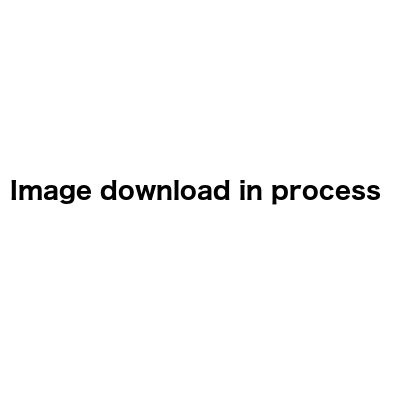
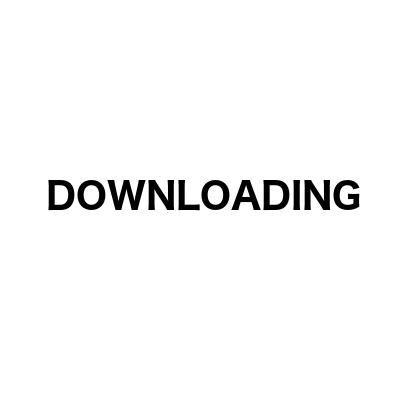
Updated ready

Changed region(s): [[0.03, 0.45, 0.96, 0.54]]

diff --git a/VirtualTourist/SharedNetworkServices.swift b/VirtualTourist/SharedNetworkServices.swift
@@ -16,11 +16,13 @@ class SharedNetworkServices: NSObject, NSFetchedResultsControllerDelegate {
     private override init() {}                              // ensure no one will init
     
 
+    // top level func used to save photos of a Pin
+    
     func savePhotos(pin: Pin, completionHandler:(status: ErrorType) -> Void)  {
 
-        GlobalVar.sharedInstance.photosDownloadIsInProcess = true   // photo downloads are in process
-        self.getURLsFromFlickr(pin, completionHandler: { (status) in
-            self.storePhotos(pin, completionHandler: { (status) in
+        GlobalVar.sharedInstance.photosDownloadIsInProcess = true   // image downloads are in process
+        self.saveFlickrURLsToPin(pin, completionHandler: { (status) in
+            self.saveImagesToPin(pin, completionHandler: { (status) in
                 GlobalVar.sharedInstance.photosDownloadIsInProcess = false
                 completionHandler(status: status)
             })
@@ -28,7 +30,10 @@ class SharedNetworkServices: NSObject, NSFetchedResultsControllerDelegate {
         })
     }
 
-    func getURLsFromFlickr(pin: Pin, completionHandler:(status: ErrorType) -> Void) {
+    
+    // First, get the URLs of photos to be saved to a Pin
+    
+    func saveFlickrURLsToPin(pin: Pin, completionHandler:(status: ErrorType) -> Void) {
         let request = setUpRequest(pin)
         let session = NSURLSession.sharedSession()
         let task = session.dataTaskWithRequest(request) { (data,response, error) in
@@ -42,9 +47,9 @@ class SharedNetworkServices: NSObject, NSFetchedResultsControllerDelegate {
                         let totalPages = try self.getTotalPagesAvail(parsedResult)
                         pin.numOfPages = totalPages
                         do {
-                            
+                            // add the URLs of images to an array from the one page returned in flickr
                             let photoURLArray = try self.createArrayOfPhotoURLsFromParsedResult(parsedResult)
-                                for item in photoURLArray! {
+                                for item in photoURLArray! {    // create Photo entities for each URL in the array. Key is URL. Image to be added later.
                                     let dictionary : [String : AnyObject] = [
                                         Photo.Keys.Key : item,
                                         Photo.Keys.Pin : pin as Pin
@@ -52,16 +57,10 @@ class SharedNetworkServices: NSObject, NSFetchedResultsControllerDelegate {
                                     let _ = Photo(dictionary: dictionary, context: SharedMethod.sharedContext)
                             }
                         } catch {
-                            completionHandler(status:error)
-                            /*storePhotos(pin, completionHandler: {(status) {
-                                
-                            })*/
+                            completionHandler(status:error) // errror creating array
                         }
                     
                         SharedMethod.saveContext()
-                    
-                        // MAKE SURE HANDLED
-                        
                         completionHandler(status:Status.codeIs.noError)
                         
                     } catch {                               // parse error
@@ -81,6 +80,9 @@ class SharedNetworkServices: NSObject, NSFetchedResultsControllerDelegate {
         
     }
     
+    
+    // Create an array of URLs from the flickr page
+    
     func createArrayOfPhotoURLsFromParsedResult (parsedResult: AnyObject!) throws -> NSArray? {
         
         let photosContainer = parsedResult["photos"] as? NSDictionary
@@ -99,9 +101,10 @@ class SharedNetworkServices: NSObject, NSFetchedResultsControllerDelegate {
     
     }
     
-    // Store photos in Core Data. Cycle through URLDictionary created in calling fund. For each URL, get the photo and store in Core Data
     
-    func storePhotos(pin: Pin, completionHandler:(status: ErrorType) -> Void) {
+    // Store photos in Core Data. Cycle through the photos entities created for the pin. For the entity URL (key), get the image and store in Core Data
+    
+    func saveImagesToPin(pin: Pin, completionHandler:(status: ErrorType) -> Void) {
         do {
             
             let request = NSFetchRequest(entityName: "Photo")
@@ -112,7 +115,7 @@ class SharedNetworkServices: NSObject, NSFetchedResultsControllerDelegate {
             try fetchedResultsController.performFetch()
             let fetchedObjects = fetchedResultsController.fetchedObjects
             if fetchedObjects!.count > 0 {
-                for photo in fetchedObjects as! [Photo] {
+                for photo in fetchedObjects as! [Photo] {   // for each Photo associated with the Pin call flickr to get the image
                     if photo.imageData == nil {
                         let session = NSURLSession.sharedSession()
                         let URLString = NSURL(string: photo.key)
@@ -124,8 +127,8 @@ class SharedNetworkServices: NSObject, NSFetchedResultsControllerDelegate {
                                 do {
                                     
                                     try self.checkForNetworkErrors(data, error: error)
-                                    photo.imageData = data
-                                    SharedMethod.saveContext()
+                                    photo.imageData = data             // save the image to the Photo
+                                    SharedMethod.saveContext()      // save it
                                     completionHandler(status: Status.codeIs.noError)
                 
                                 } catch {   // Network error
@@ -152,6 +155,10 @@ class SharedNetworkServices: NSObject, NSFetchedResultsControllerDelegate {
     }
     
     
+    // MARK: Helper functions
+    
+    // Create flickr request
+    
     func setUpRequest (pin: Pin) -> NSURLRequest {
         
         var methodArguments = Constants.FlickrAPI.methodArguments
@@ -166,6 +173,8 @@ class SharedNetworkServices: NSObject, NSFetchedResultsControllerDelegate {
         
     }
     
+    
+    // Any network errors when accessing flickr?
 
     func checkForNetworkErrors(data: NSData?, error: NSError?) throws {
         
@@ -185,6 +194,11 @@ class SharedNetworkServices: NSObject, NSFetchedResultsControllerDelegate {
     }
     
     
+    // Process parsed data, get the total # of flickr pages available at this location.
+    // If based on the # of pages and Per_Page flickr parm (# of pages returned per page), if more than 4,000 photos 
+    //   can be returned, restrict the total pages in use to return less than 4,000 photos.
+    //   This is to ensure new photos will always be returned, avoid having the same photos returned in different pages
+    
     func getTotalPagesAvail(parsedResult: AnyObject?) throws -> Int {
         
         guard parsedResult != nil else {
@@ -201,7 +215,7 @@ class SharedNetworkServices: NSObject, NSFetchedResultsControllerDelegate {
         guard var totalPages = (photosDictionary["pages"] as? Int) else { // Is "pages" key in the photosDictionary?
             throw Status.codeIs.couldNotFindKey(type: "Pages")
         }
-        // make sure flickr will return less than 4000 photos else will get duplicate photos for different pages
+        // Make sure flickr will return less than 4,000 photos else will get duplicate photos for different pages
         if totalPages > Constants.maxPageNumFromFlickr {totalPages = Constants.maxPageNumFromFlickr}
         
         return totalPages
@@ -209,7 +223,7 @@ class SharedNetworkServices: NSObject, NSFetchedResultsControllerDelegate {
     }
 
 
-    // Lat/Lon Manipulation
+    // Lat/Lon manipulation to avoid missing a location due to rounding errors caused converting lat / lon from double to NSNumber and back
     
     func createBoundingBoxString(latitude: Double, longitude: Double) -> String {
         
@@ -222,7 +236,7 @@ class SharedNetworkServices: NSObject, NSFetchedResultsControllerDelegate {
     }
 
 
-    // Escape HTML Parameters
+    // Process escape HTML Parameters
     
     func escapedParameters(parameters: [String : AnyObject]) -> String {
         

diff --git a/VirtualTourist/Pin.swift b/VirtualTourist/Pin.swift
@@ -1,15 +1,15 @@
-import UIKit
 import CoreData
-import Foundation
 
 class Pin : NSManagedObject {
     
+    // Keys of dict used to create new Pin
     struct Keys {
         static let Latitude = "latitude"
         static let Longitude = "longitude"
         static let numOfPages = "numOfPages"
     }
     
+    // Pin vars
     @NSManaged var latitude: NSNumber
     @NSManaged var longitude: NSNumber
     @NSManaged var numOfPages: NSNumber
@@ -21,6 +21,7 @@ class Pin : NSManagedObject {
     
     }
     
+    // create Pin processing
     init(dictionary: [String : AnyObject], context: NSManagedObjectContext) {
         
         let entity =  NSEntityDescription.entityForName("Pin", inManagedObjectContext: context)!
@@ -28,9 +29,9 @@ class Pin : NSManagedObject {
         latitude = dictionary[Keys.Latitude] as! NSNumber
         longitude = dictionary[Keys.Longitude] as! NSNumber
         if (dictionary[Keys.numOfPages] == nil) || (dictionary[Keys.numOfPages] as! NSNumber == 0) {
-            numOfPages = 1
+            numOfPages = 1  // default to page 1
         } else {
-            numOfPages = dictionary[Keys.numOfPages] as! NSNumber
+            numOfPages = dictionary[Keys.numOfPages] as! NSNumber   // use value from dictionary
         }
     
     }

diff --git a/VirtualTourist/PhotoAlbumVC.swift b/VirtualTourist/PhotoAlbumVC.swift
@@ -30,8 +30,6 @@ class PhotoAlbumVC: UIViewController, MKMapViewDelegate, NSFetchedResultsControl
     var updatedIndexPaths:  [NSIndexPath]!
     
     
-    // MAY NOT NEED
-    
     // MARK: Lazy frc
     
     lazy var photoFetchedResultsController: NSFetchedResultsController = {
@@ -150,6 +148,8 @@ class PhotoAlbumVC: UIViewController, MKMapViewDelegate, NSFetchedResultsControl
         cell.backgroundColor = UIColor.whiteColor() // make cell more visible
         if (photo.imageData != nil) {
             cell.image.image = UIImage(data: photo.imageData!)
+        } else {
+            cell.image.image = UIImage(named: "downloading.png")
         }
         cell.contentView.layoutIfNeeded()
         cell.contentView.layoutSubviews()
@@ -195,7 +195,6 @@ class PhotoAlbumVC: UIViewController, MKMapViewDelegate, NSFetchedResultsControl
         deletedIndexPaths = [NSIndexPath]()
         updatedIndexPaths = [NSIndexPath]()
     }
-    
     
     
     // Handle changes to the indexPath
@@ -272,6 +271,5 @@ class PhotoAlbumVC: UIViewController, MKMapViewDelegate, NSFetchedResultsControl
         
         SharedMethod.setActivityIndicator("FINISH", mapView: mapView, activityIndicator: activityIndicator)
     }
-    
  
 }

diff --git a/VirtualTourist/SharedServices.swift b/VirtualTourist/SharedServices.swift
@@ -20,6 +20,7 @@ class SharedServices: NSObject {
 
     
     // MARK: Error Processing
+    
     // Convert error codes to error messages. Add in variable text as needed.
     
     func errorMessage(err: ErrorType) -> String {
@@ -76,7 +77,7 @@ class SharedServices: NSObject {
     }
        
     
-    // Show an alert. Message is from mesasge list in the common "Status" file  
+    // Show an alert. Message is from message list in the common "Status" file
     
     func showAlert (error: ErrorType, title: String) {
         let vc = presentingVC()
@@ -92,7 +93,7 @@ class SharedServices: NSObject {
         }
     }
 
-    // MARK: Map activity indicator setup
+    // Map activity indicator setup
 
    func setActivityIndicator(option: String, mapView: MKMapView, activityIndicator: UIActivityIndicatorView ) {
         switch(option) {
@@ -108,8 +109,8 @@ class SharedServices: NSObject {
         }
     }
     
-    // MARK: Find current VC
-    // Used in func ShowAlert to get the present VC
+    
+    // Find current VC. Used in func ShowAlert to get the present VC
     
     func  presentingVC() -> UIViewController? {
         var topController = UIApplication.sharedApplication().keyWindow?.rootViewController

diff --git a/VirtualTourist/Photo.swift b/VirtualTourist/Photo.swift
@@ -1,23 +1,23 @@
-import UIKit
-
 import CoreData
 
 class Photo : NSManagedObject {
     
+    // Keys of dict used to create new Photo
     struct Keys {
         static let Key = "key"
         static let ImageData = "imagedata"
         static let Pin = "pin"
     }
-    
+    // Photo vars
      @NSManaged var key: String
-     @NSManaged var imageData: NSData?
+     @NSManaged var imageData: NSData?  // image can be nil if image not yet loaded
      @NSManaged var pin: Pin
     
     override init(entity: NSEntityDescription, insertIntoManagedObjectContext context: NSManagedObjectContext?) {
         super.init(entity: entity, insertIntoManagedObjectContext: context)
     }
     
+    // create Photo processing
     init(dictionary: [String : AnyObject], context: NSManagedObjectContext) {
         
         let entity =  NSEntityDescription.entityForName("Photo", inManagedObjectContext: context)!

diff --git a/VirtualTourist/SharedMethod.swift b/VirtualTourist/SharedMethod.swift
@@ -8,9 +8,8 @@
 
 class SharedMethod {
     
-    /********************************************************************************************************
-     * Shared instance constants used to improve readability in methods                                     *
-     ********************************************************************************************************/
+    
+    // Shared instance constants used to improve readability in methods
     
     static let  errorMessage                    =   SharedServices.sharedInstance.errorMessage
     static let  presentingVC                    =   SharedServices.sharedInstance.presentingVC

diff --git a/VirtualTourist/Constants.swift b/VirtualTourist/Constants.swift
@@ -42,8 +42,8 @@ class Constants: NSObject {
             "extras": "url_m",
             "format": "json",
             "nojsoncallback": "1",
-            "bbox": "1.0,2.0,3.0,4.4",              // string of the lat / longitude of the 2 bottom-left and top-right corners
-            "page": 1,                             // page to be returned
+            "bbox": "1.0,2.0,3.0,4.4",  // string of the lat / longitude of the 2 bottom-left and top-right corners
+            "page": 1,                  // page to be returned
             "per_page": 21
         ]
     }

diff --git a/VirtualTourist/Status.swift b/VirtualTourist/Status.swift
@@ -22,8 +22,7 @@ class Status: NSObject {
         case network                    (type: String, error: NSError)
         case flickrStatus               (statusCode: Int)
         case pinNotFound
-        //case pinError                   (error: NSError)
-        //case photoError                 (error: NSError)
+    
     }
     
     

diff --git a/VirtualTourist/GlobalVar.swift b/VirtualTourist/GlobalVar.swift
@@ -8,9 +8,12 @@
 
 import Foundation
 
+
+// used to store vars used in many classes
 class GlobalVar: NSObject {
     static let sharedInstance = GlobalVar()    // set up shared instance class
     private override init() {}
+    
     
     var photosDownloadIsInProcess = false
     

diff --git a/VirtualTourist/TravelLocationsVC.swift b/VirtualTourist/TravelLocationsVC.swift
@@ -161,7 +161,7 @@ class TravelLocationsVC: UIViewController, MKMapViewDelegate, NSFetchedResultsCo
         }
     }
     
-    // MARK: Core Data fetched results controller functions
+    // MARK: Core Data functions
     
     // Get all pins on the map
 
